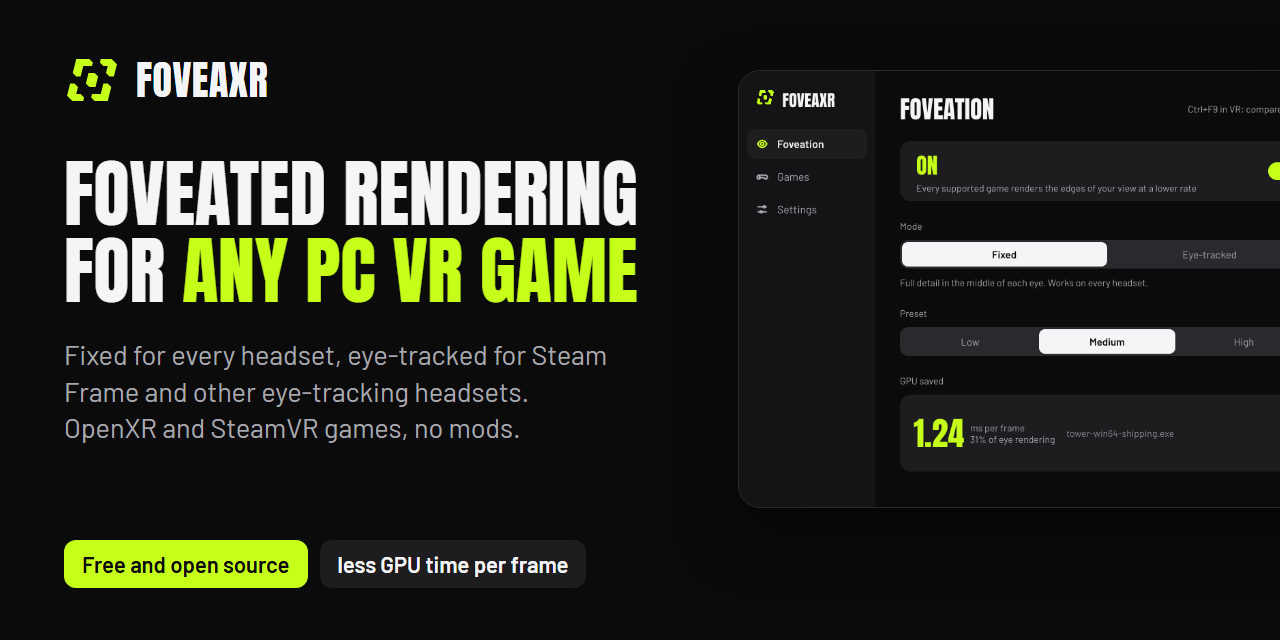
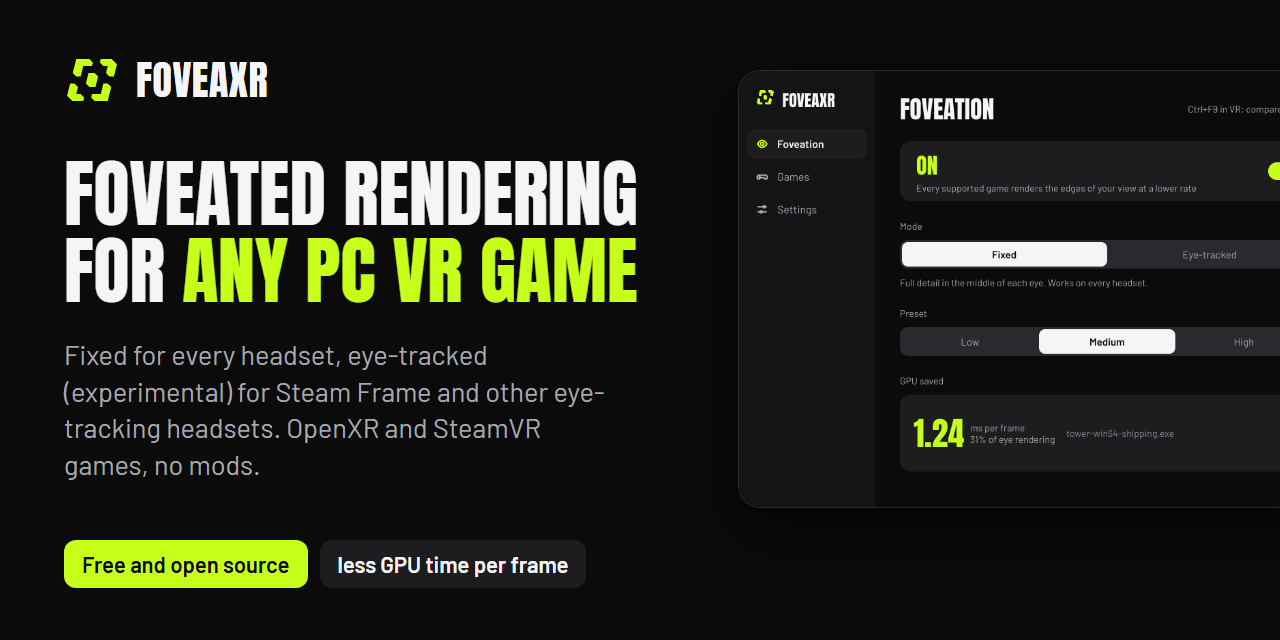
Social card: eye-tracked mode is experimental

Changed region(s): [[0.0312, 0.5312, 0.4688, 0.6875], [0.0312, 0.7188, 0.2188, 0.75]]

diff --git a/packaging/brand/og.html b/packaging/brand/og.html
@@ -19,6 +19,6 @@ html,body{margin:0;width:1280px;height:640px;overflow:hidden;background:#0B0B0C;
 </style></head><body>
 <img class="shot" src="../../docs/img/main.png" style="right:-60px;top:70px;width:600px">
 <div class="name"><img src="foveaxr-mark.svg" alt="">FoveaXR</div>
-<div class="c"><div class="t">Foveated rendering<br>for <em>any PC VR game</em></div><div class="s">Fixed for every headset, eye-tracked for Steam Frame and other eye-tracking headsets. OpenXR and SteamVR games, no mods.</div></div>
+<div class="c"><div class="t">Foveated rendering<br>for <em>any PC VR game</em></div><div class="s">Fixed for every headset, eye-tracked (experimental) for Steam Frame and other eye-tracking headsets. OpenXR and SteamVR games, no mods.</div></div>
 <div class="b"><span class="a">Free and open source</span><span>less GPU time per frame</span></div>
 </body></html>
